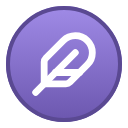
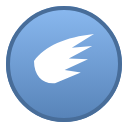
Redraw the dragon, flying, rock and ground type badges

diff --git a/src/features/typeicons.ts b/src/features/typeicons.ts
@@ -26,8 +26,8 @@ async function download(type: string, path: string): Promise<Buffer | null> {
   }
   return null;
 }
-// tb_ for the badge set, so older uploads don't get picked up
-const nameOf = (t: string) => `tb_${t.toLowerCase()}`;
+// tc_ for the badge set, so older uploads don't get picked up
+const nameOf = (t: string) => `tc_${t.toLowerCase()}`;
 
 // app emoji work in every server, so they are made once and reused
 export async function loadTypeIcons(client: Client, tries = 3): Promise<void> {
